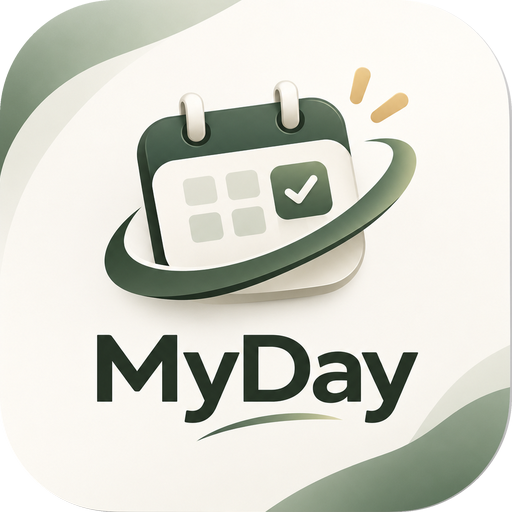
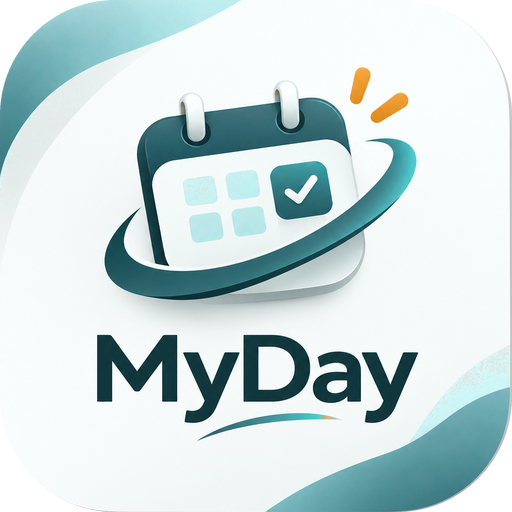
Add files via upload

diff --git a/app.js b/app.js
@@ -98,7 +98,7 @@ function save() {
 }
 
 /* ---------- UI dasar ---------- */
-const state = { tab: 'today', sub: null, date: ymd(), month: ymd().slice(0, 7), q: { page: 0, mode: 'surah', search: '' }, dzTab: 'dzikir' };
+const state = { tab: 'today', sub: null, date: ymd(), month: ymd().slice(0, 7), q: { page: 0, mode: 'surah', search: '' }, dzTab: 'dzikir', dzSet: 'pagi' };
 let toastTimer = null;
 function toast(msg, ms = 2800) {
   const t = $('#toast');
@@ -646,6 +646,64 @@ const DZIKIR = [
   { id: 'hawqalah', ar: 'لَا حَوْلَ وَلَا قُوَّةَ إِلَّا بِٱللّٰهِ', mean: 'Tiada daya dan kekuatan kecuali dengan pertolongan Allah', target: 33 },
   { id: 'shalawat', ar: 'ٱللّٰهُمَّ صَلِّ عَلَىٰ مُحَمَّدٍ', mean: 'Ya Allah, limpahkan shalawat kepada Muhammad', target: 100 },
 ];
+
+const ayatJoin = (arr) => arr.map((t, i) => `${t} ﴿${arNum(i + 1)}﴾`).join(' ');
+const Z = {
+  kursi: { id: 'kursi', t: 'Ayat Kursi (Al-Baqarah: 255)', target: 1,
+    ar: 'اللَّهُ لَا إِلَٰهَ إِلَّا هُوَ الْحَيُّ الْقَيُّومُ ۚ لَا تَأْخُذُهُ سِنَةٌ وَلَا نَوْمٌ ۚ لَهُ مَا فِي السَّمَاوَاتِ وَمَا فِي الْأَرْضِ ۗ مَنْ ذَا الَّذِي يَشْفَعُ عِنْدَهُ إِلَّا بِإِذْنِهِ ۚ يَعْلَمُ مَا بَيْنَ أَيْدِيهِمْ وَمَا خَلْفَهُمْ ۖ وَلَا يُحِيطُونَ بِشَيْءٍ مِنْ عِلْمِهِ إِلَّا بِمَا شَاءَ ۚ وَسِعَ كُرْسِيُّهُ السَّمَاوَاتِ وَالْأَرْضَ ۖ وَلَا يَئُودُهُ حِفْظُهُمَا ۚ وَهُوَ الْعَلِيُّ الْعَظِيمُ',
+    mean: 'Allah, tiada tuhan selain Dia, Yang Maha Hidup, Yang terus-menerus mengurus makhluk-Nya. Dia tidak mengantuk dan tidak tidur. Milik-Nya apa yang di langit dan di bumi. Tiada yang dapat memberi syafaat di sisi-Nya kecuali dengan izin-Nya. Dia mengetahui apa yang di hadapan dan di belakang mereka, dan mereka tidak mengetahui sesuatu pun dari ilmu-Nya kecuali apa yang Dia kehendaki. Kursi-Nya meliputi langit dan bumi, dan Dia tidak merasa berat memelihara keduanya. Dia Maha Tinggi, Maha Besar.' },
+  ikhlas: { id: 'ikhlas', t: 'Surah Al-Ikhlas', target: 3,
+    ar: ayatJoin(['قُلْ هُوَ اللَّهُ أَحَدٌ', 'اللَّهُ الصَّمَدُ', 'لَمْ يَلِدْ وَلَمْ يُولَدْ', 'وَلَمْ يَكُنْ لَهُ كُفُوًا أَحَدٌ']),
+    mean: 'Katakanlah: Dialah Allah, Yang Maha Esa. Allah tempat bergantung segala sesuatu. Dia tidak beranak dan tidak diperanakkan. Dan tidak ada sesuatu pun yang setara dengan Dia.' },
+  falaq: { id: 'falaq', t: 'Surah Al-Falaq', target: 3,
+    ar: ayatJoin(['قُلْ أَعُوذُ بِرَبِّ الْفَلَقِ', 'مِنْ شَرِّ مَا خَلَقَ', 'وَمِنْ شَرِّ غَاسِقٍ إِذَا وَقَبَ', 'وَمِنْ شَرِّ النَّفَّاثَاتِ فِي الْعُقَدِ', 'وَمِنْ شَرِّ حَاسِدٍ إِذَا حَسَدَ']),
+    mean: 'Katakanlah: Aku berlindung kepada Tuhan yang menguasai subuh, dari kejahatan makhluk yang Dia ciptakan, dari kejahatan malam apabila telah gelap gulita, dari kejahatan para penyihir yang meniup pada buhul-buhul, dan dari kejahatan orang yang dengki apabila ia dengki.' },
+  nas: { id: 'nas', t: 'Surah An-Nas', target: 3,
+    ar: ayatJoin(['قُلْ أَعُوذُ بِرَبِّ النَّاسِ', 'مَلِكِ النَّاسِ', 'إِلَٰهِ النَّاسِ', 'مِنْ شَرِّ الْوَسْوَاسِ الْخَنَّاسِ', 'الَّذِي يُوَسْوِسُ فِي صُدُورِ النَّاسِ', 'مِنَ الْجِنَّةِ وَالنَّاسِ']),
+    mean: 'Katakanlah: Aku berlindung kepada Tuhan manusia, Raja manusia, sembahan manusia, dari kejahatan bisikan setan yang bersembunyi, yang membisikkan ke dalam dada manusia, dari golongan jin dan manusia.' },
+  asbahna: { id: 'asbahna', t: 'Memasuki pagi', target: 1,
+    ar: 'أَصْبَحْنَا وَأَصْبَحَ الْمُلْكُ لِلَّهِ وَالْحَمْدُ لِلَّهِ، لَا إِلَٰهَ إِلَّا اللَّهُ وَحْدَهُ لَا شَرِيكَ لَهُ، لَهُ الْمُلْكُ وَلَهُ الْحَمْدُ وَهُوَ عَلَىٰ كُلِّ شَيْءٍ قَدِيرٌ',
+    mean: 'Kami memasuki pagi dan kerajaan hanya milik Allah, segala puji bagi Allah. Tiada tuhan selain Allah semata, tiada sekutu bagi-Nya. Milik-Nya kerajaan dan milik-Nya segala puji, dan Dia Maha Kuasa atas segala sesuatu.' },
+  bika_pagi: { id: 'bika', t: 'Dengan-Mu kami berpagi hari', target: 1,
+    ar: 'اللَّهُمَّ بِكَ أَصْبَحْنَا وَبِكَ أَمْسَيْنَا وَبِكَ نَحْيَا وَبِكَ نَمُوتُ وَإِلَيْكَ النُّشُورُ',
+    mean: 'Ya Allah, dengan-Mu kami memasuki pagi, dengan-Mu kami memasuki sore, dengan-Mu kami hidup, dengan-Mu kami mati, dan kepada-Mu kebangkitan.' },
+  amsaina: { id: 'amsaina', t: 'Memasuki petang', target: 1,
+    ar: 'أَمْسَيْنَا وَأَمْسَى الْمُلْكُ لِلَّهِ وَالْحَمْدُ لِلَّهِ، لَا إِلَٰهَ إِلَّا اللَّهُ وَحْدَهُ لَا شَرِيكَ لَهُ، لَهُ الْمُلْكُ وَلَهُ الْحَمْدُ وَهُوَ عَلَىٰ كُلِّ شَيْءٍ قَدِيرٌ',
+    mean: 'Kami memasuki petang dan kerajaan hanya milik Allah, segala puji bagi Allah. Tiada tuhan selain Allah semata, tiada sekutu bagi-Nya. Milik-Nya kerajaan dan milik-Nya segala puji, dan Dia Maha Kuasa atas segala sesuatu.' },
+  bika_petang: { id: 'bika', t: 'Dengan-Mu kami bersore hari', target: 1,
+    ar: 'اللَّهُمَّ بِكَ أَمْسَيْنَا وَبِكَ أَصْبَحْنَا وَبِكَ نَحْيَا وَبِكَ نَمُوتُ وَإِلَيْكَ الْمَصِيرُ',
+    mean: 'Ya Allah, dengan-Mu kami memasuki sore, dengan-Mu kami memasuki pagi, dengan-Mu kami hidup, dengan-Mu kami mati, dan kepada-Mu tempat kembali.' },
+  sayyid: { id: 'sayyid', t: 'Sayyidul Istighfar', target: 1,
+    ar: 'اللَّهُمَّ أَنْتَ رَبِّي لَا إِلَٰهَ إِلَّا أَنْتَ، خَلَقْتَنِي وَأَنَا عَبْدُكَ، وَأَنَا عَلَىٰ عَهْدِكَ وَوَعْدِكَ مَا اسْتَطَعْتُ، أَعُوذُ بِكَ مِنْ شَرِّ مَا صَنَعْتُ، أَبُوءُ لَكَ بِنِعْمَتِكَ عَلَيَّ، وَأَبُوءُ بِذَنْبِي فَاغْفِرْ لِي فَإِنَّهُ لَا يَغْفِرُ الذُّنُوبَ إِلَّا أَنْتَ',
+    mean: 'Ya Allah, Engkau Tuhanku, tiada tuhan selain Engkau. Engkau menciptakanku dan aku hamba-Mu, aku berada di atas perjanjian dan janji-Mu semampuku. Aku berlindung kepada-Mu dari keburukan yang kuperbuat. Aku mengakui nikmat-Mu kepadaku dan mengakui dosaku, maka ampunilah aku, karena tiada yang mengampuni dosa kecuali Engkau.' },
+  afiyah: { id: 'afiyah', t: 'Memohon kesehatan', target: 3,
+    ar: 'اللَّهُمَّ عَافِنِي فِي بَدَنِي، اللَّهُمَّ عَافِنِي فِي سَمْعِي، اللَّهُمَّ عَافِنِي فِي بَصَرِي، لَا إِلَٰهَ إِلَّا أَنْتَ',
+    mean: 'Ya Allah, sehatkanlah badanku. Ya Allah, sehatkanlah pendengaranku. Ya Allah, sehatkanlah penglihatanku. Tiada tuhan selain Engkau.' },
+  bismillah: { id: 'bismillah', t: 'Perlindungan dari bahaya', target: 3,
+    ar: 'بِسْمِ اللَّهِ الَّذِي لَا يَضُرُّ مَعَ اسْمِهِ شَيْءٌ فِي الْأَرْضِ وَلَا فِي السَّمَاءِ وَهُوَ السَّمِيعُ الْعَلِيمُ',
+    mean: 'Dengan nama Allah yang tidak ada sesuatu pun di bumi dan di langit yang dapat membahayakan bersama nama-Nya, dan Dia Maha Mendengar lagi Maha Mengetahui.' },
+  kalimat: { id: 'kalimat', t: 'Berlindung dengan kalimat Allah', target: 3,
+    ar: 'أَعُوذُ بِكَلِمَاتِ اللَّهِ التَّامَّاتِ مِنْ شَرِّ مَا خَلَقَ',
+    mean: 'Aku berlindung dengan kalimat-kalimat Allah yang sempurna dari keburukan makhluk yang Dia ciptakan.' },
+  ridha: { id: 'ridha', t: 'Ridha kepada Allah', target: 3,
+    ar: 'رَضِيتُ بِاللَّهِ رَبًّا وَبِالْإِسْلَامِ دِينًا وَبِمُحَمَّدٍ نَبِيًّا',
+    mean: 'Aku ridha Allah sebagai Tuhan, Islam sebagai agama, dan Muhammad sebagai nabi.' },
+  subhan: { id: 'subhan', t: 'Tasbih dan tahmid', target: 100,
+    ar: 'سُبْحَانَ اللَّهِ وَبِحَمْدِهِ',
+    mean: 'Maha Suci Allah dan segala puji bagi-Nya.' },
+  tahlil: { id: 'tahlil', t: 'Tahlil', target: 10,
+    ar: 'لَا إِلَٰهَ إِلَّا اللَّهُ وَحْدَهُ لَا شَرِيكَ لَهُ، لَهُ الْمُلْكُ وَلَهُ الْحَمْدُ وَهُوَ عَلَىٰ كُلِّ شَيْءٍ قَدِيرٌ',
+    mean: 'Tiada tuhan selain Allah semata, tiada sekutu bagi-Nya. Milik-Nya kerajaan dan milik-Nya segala puji, dan Dia Maha Kuasa atas segala sesuatu.' },
+  istighfar: { id: 'istighfar', t: 'Istighfar dan taubat', target: 100,
+    ar: 'أَسْتَغْفِرُ اللَّهَ وَأَتُوبُ إِلَيْهِ',
+    mean: 'Aku memohon ampun kepada Allah dan bertaubat kepada-Nya.' },
+};
+const DZ_PAGI = [Z.kursi, Z.ikhlas, Z.falaq, Z.nas, Z.asbahna, Z.bika_pagi, Z.sayyid, Z.afiyah, Z.bismillah, Z.ridha, Z.subhan, Z.tahlil, Z.istighfar];
+const DZ_PETANG = [Z.kursi, Z.ikhlas, Z.falaq, Z.nas, Z.amsaina, Z.bika_petang, Z.sayyid, Z.afiyah, Z.bismillah, Z.kalimat, Z.ridha, Z.subhan, Z.tahlil, Z.istighfar];
+const DZ_SETS = { pagi: DZ_PAGI, petang: DZ_PETANG, umum: DZIKIR };
+const DZ_NAMES = { pagi: 'Dzikir pagi', petang: 'Dzikir petang', umum: 'Setelah sholat' };
+const dzFind = (key) => { const [set, id] = key.split(':'); return (DZ_SETS[set] || []).find((x) => x.id === id); };
+
 const DOA = [
   { t: 'Bangun tidur', ar: 'الْحَمْدُ لِلَّهِ الَّذِي أَحْيَانَا بَعْدَ مَا أَمَاتَنَا وَإِلَيْهِ النُّشُورُ', mean: 'Segala puji bagi Allah yang menghidupkan kami setelah mematikan kami, dan kepada-Nya kami dikembalikan.' },
   { t: 'Sebelum tidur', ar: 'بِاسْمِكَ اللَّهُمَّ أَحْيَا وَبِاسْمِكَ أَمُوتُ', mean: 'Dengan nama-Mu ya Allah aku hidup dan aku mati.' },
@@ -672,7 +730,7 @@ function viewMore() {
   return `<div class="head-row"><div class="head-c" style="text-align:left"><div class="h1 serif">Lainnya</div></div></div>
     <div class="card flush">
       ${row('go-habits', 'Kebiasaan harian', 'Centang kebiasaan baik dan jaga rangkaian harinya')}
-      ${row('go-dzikir', 'Dzikir', 'Penghitung dzikir harian')}
+      ${row('go-dzikir', 'Dzikir', 'Dzikir pagi, petang, dan setelah sholat')}
       ${row('go-doa', 'Doa harian', 'Doa-doa pendek sehari-hari')}
     </div>
     <div class="card flush">
@@ -706,14 +764,18 @@ function viewAmalan() {
   const tab = state.dzTab, d = ymd(), log = S.dzikir[d] || {};
   let html = `<div class="row">${backBtn()}<div class="grow"><div class="h1 serif">${tab === 'dzikir' ? 'Dzikir' : 'Doa harian'}</div></div></div>`;
   if (tab === 'dzikir') {
-    html += `<div class="muted mb" style="margin-top:2px">Ketuk angka untuk menghitung. Tersimpan per hari.</div>`;
-    for (const z of DZIKIR) {
-      const c = log[z.id] || 0, pct = Math.min(100, Math.round((c / z.target) * 100));
+    const set = state.dzSet, list = DZ_SETS[set];
+    const doneN = list.filter((z) => (log[set + ':' + z.id] || 0) >= z.target).length;
+    html += `<div class="seg" style="margin:6px 0 12px">${['pagi', 'petang', 'umum'].map((k) => `<button class="${set === k ? 'on' : ''}" data-act="dz-set" data-s="${k}">${k === 'umum' ? 'Setelah sholat' : k === 'pagi' ? 'Pagi' : 'Petang'}</button>`).join('')}</div>
+      <div class="muted mb">${set === 'pagi' ? 'Dibaca setelah Subuh hingga pagi hari.' : set === 'petang' ? 'Dibaca setelah Ashar hingga Maghrib.' : 'Penghitung dzikir setelah sholat.'} Ketuk angka untuk menghitung. Selesai ${doneN} dari ${list.length}.</div>`;
+    for (const z of list) {
+      const key = set + ':' + z.id, c = log[key] || 0, pct = Math.min(100, Math.round((c / z.target) * 100));
       html += `<div class="card dz">
-        <div class="ar-line">${z.ar}</div><div class="muted center">${esc(z.mean)}</div>
+        ${z.t ? `<div class="dz-t">${esc(z.t)}</div>` : ''}
+        <div class="ar-line ${z.ar.length > 110 ? 'long' : ''}">${z.ar}</div><div class="muted ${z.mean.length > 140 ? 'tr-long' : 'center'}">${esc(z.mean)}</div>
         <div class="bar mt ${c >= z.target ? 'gold' : ''}"><i style="width:${pct}%"></i></div>
-        <div class="row between mt"><button class="ghost small" data-act="dz-reset" data-id="${z.id}">Ulang</button>
-        <button class="count" data-act="dz-add" data-id="${z.id}" aria-label="Tambah hitungan"><span id="dz-${z.id}">${c}</span><small>/ ${z.target}</small></button><span style="width:56px"></span></div>
+        <div class="row between mt"><button class="ghost small" data-act="dz-reset" data-key="${key}">Ulang</button>
+        <button class="count" data-act="dz-add" data-key="${key}" aria-label="Tambah hitungan"><span id="dz-${set}-${z.id}">${c}</span><small>/ ${z.target}</small></button><span style="width:56px"></span></div>
       </div>`;
     }
   } else {
@@ -895,7 +957,7 @@ ACT['export-csv'] = () => {
 
 // Lainnya
 ACT['go-habits'] = () => { state.sub = 'habits'; render(true); window.scrollTo(0, 0); };
-ACT['go-dzikir'] = () => { state.sub = 'amalan'; state.dzTab = 'dzikir'; render(true); window.scrollTo(0, 0); };
+ACT['go-dzikir'] = () => { state.sub = 'amalan'; state.dzTab = 'dzikir'; state.dzSet = new Date().getHours() < 14 ? 'pagi' : 'petang'; render(true); window.scrollTo(0, 0); };
 ACT['go-doa'] = () => { state.sub = 'amalan'; state.dzTab = 'doa'; render(true); window.scrollTo(0, 0); };
 ACT['go-settings'] = () => { state.sub = 'settings'; render(true); window.scrollTo(0, 0); };
 ACT['add-habit'] = () => openModal(habitForm({ name: '', remindAt: '' }));
@@ -909,20 +971,21 @@ ACT['save-habit'] = (el) => {
   save(); closeModal(); render(true);
 };
 ACT['del-habit'] = (el) => { if (!confirm('Hapus kebiasaan ini?')) return; S.habits = S.habits.filter((h) => h.id !== el.dataset.id); save(); closeModal(); render(true); };
+ACT['dz-set'] = (el) => { state.dzSet = el.dataset.s; render(true); window.scrollTo(0, 0); };
 ACT['dz-add'] = (el) => {
-  const d = ymd(), id = el.dataset.id;
+  const d = ymd(), key = el.dataset.key;
   S.dzikir[d] = S.dzikir[d] || {};
-  S.dzikir[d][id] = (S.dzikir[d][id] || 0) + 1;
+  S.dzikir[d][key] = (S.dzikir[d][key] || 0) + 1;
   save();
   if (navigator.vibrate) navigator.vibrate(12);
-  const z = DZIKIR.find((x) => x.id === id), c = S.dzikir[d][id];
-  const span = $('#dz-' + id);
+  const z = dzFind(key), c = S.dzikir[d][key];
+  const span = $('#dz-' + key.replace(':', '-'));
   if (span) span.textContent = c;
   const card = el.closest('.card'), bar = card && card.querySelector('.bar');
   if (bar && z) { bar.classList.toggle('gold', c >= z.target); bar.firstElementChild.style.width = Math.min(100, Math.round((c / z.target) * 100)) + '%'; }
-  if (z && c === z.target) { if (navigator.vibrate) navigator.vibrate([30, 40, 30]); toast('Target tercapai'); }
+  if (z && c === z.target) { if (navigator.vibrate) navigator.vibrate([30, 40, 30]); toast('Selesai ✓'); }
 };
-ACT['dz-reset'] = (el) => { const d = ymd(); if (S.dzikir[d]) S.dzikir[d][el.dataset.id] = 0; save(); render(true); };
+ACT['dz-reset'] = (el) => { const d = ymd(); if (S.dzikir[d]) S.dzikir[d][el.dataset.key] = 0; save(); render(true); };
 ACT.geo = () => {
   if (!navigator.geolocation) return toast('Browser tidak mendukung lokasi.');
   toast('Mencari lokasi…');

diff --git a/style.css b/style.css
@@ -1,18 +1,19 @@
 :root {
-  --bg: #faf8f1;
-  --card: #fffefb;
-  --line: #e9e5d8;
-  --text: #22302a;
-  --muted: #6f7c73;
-  --primary: #3f5e45;
-  --primary-2: #5e7f63;
-  --soft: #e8eee3;
-  --soft-2: #f2f4ea;
-  --gold: #c9a257;
-  --gold-soft: #f6ecd3;
-  --gold-ink: #7d5f1b;
-  --good: #3f7a52;
-  --bad: #b4513c;
+  --bg: #f4fafa;
+  --card: #ffffff;
+  --line: #d9ebea;
+  --text: #10303a;
+  --muted: #58777c;
+  --primary: #17707c;
+  --primary-2: #2a9aa0;
+  --soft: #d9f0f0;
+  --soft-2: #ebf8f8;
+  --accent: #f0952a;
+  --gold: #f0a030;
+  --gold-soft: #fff0d2;
+  --gold-ink: #8a5300;
+  --good: #1f9d6b;
+  --bad: #d9533b;
   --radius: 20px;
   --nav-h: 66px;
   --serif: "Iowan Old Style", "Palatino Linotype", Palatino, "Book Antiqua", Georgia, "Noto Serif", serif;
@@ -37,7 +38,7 @@ body {
   transition: opacity .7s ease;
 }
 #splash.hide { opacity: 0; pointer-events: none; }
-#splash img { width: 124px; height: 124px; border-radius: 28px; box-shadow: 0 14px 34px rgba(63, 94, 69, .18); }
+#splash img { width: 124px; height: 124px; border-radius: 28px; box-shadow: 0 14px 34px rgba(23, 112, 124, .22); }
 .splash-name { font-size: 26px; letter-spacing: .5px; color: var(--primary); }
 
 /* Header */
@@ -45,11 +46,11 @@ body {
   position: sticky; top: 0; z-index: 5;
   display: flex; justify-content: space-between; align-items: center;
   padding: calc(10px + env(safe-area-inset-top)) 18px 10px;
-  background: rgba(250, 248, 241, .94);
+  background: rgba(244, 250, 250, .94);
   -webkit-backdrop-filter: blur(8px); backdrop-filter: blur(8px);
 }
 .brand { display: flex; align-items: center; gap: 10px; }
-.brand img { border-radius: 9px; box-shadow: 0 2px 8px rgba(63, 94, 69, .18); }
+.brand img { border-radius: 9px; box-shadow: 0 2px 8px rgba(23, 112, 124, .22); }
 .brand span { font-size: 21px; font-weight: 600; color: var(--primary); letter-spacing: .2px; }
 .chip {
   background: transparent; color: var(--primary); border: 1px solid var(--line);
@@ -75,7 +76,7 @@ h3 { font-size: 15px; font-weight: 650; margin: 0 0 8px; }
   border-radius: var(--radius);
   padding: 16px 18px;
   margin-bottom: 14px;
-  box-shadow: 0 1px 2px rgba(34, 48, 42, .03);
+  box-shadow: 0 1px 2px rgba(16, 48, 58, .04);
 }
 .card.soft { background: var(--soft-2); border-color: transparent; }
 .card.warn { background: var(--gold-soft); border-color: transparent; color: var(--gold-ink); }
@@ -90,14 +91,15 @@ h3 { font-size: 15px; font-weight: 650; margin: 0 0 8px; }
 /* Kartu sholat berikutnya */
 .hero {
   text-align: center; padding: 26px 18px 24px; margin-bottom: 14px;
-  border-radius: 26px; border: 1px solid var(--line);
-  background: linear-gradient(165deg, #e9efe3 0%, #f6f3e7 100%);
+  border-radius: 26px; border: 0; color: #fff;
+  background: linear-gradient(150deg, #17707c 0%, #2a9aa0 100%);
+  box-shadow: 0 12px 28px rgba(23, 112, 124, .28);
 }
-.hero-label { font-size: 12.5px; letter-spacing: 1.6px; text-transform: uppercase; color: var(--primary-2); font-weight: 650; }
-.hero-name { font-size: 22px; margin-top: 8px; color: var(--text); }
-.hero-time { font-size: 60px; line-height: 1.05; font-weight: 600; color: var(--primary); margin: 2px 0 10px; letter-spacing: 1px; font-variant-numeric: lining-nums; }
+.hero-label { font-size: 12.5px; letter-spacing: 1.6px; text-transform: uppercase; color: rgba(255,255,255,.82); font-weight: 650; }
+.hero-name { font-size: 22px; margin-top: 8px; color: #fff; }
+.hero-time { font-size: 60px; line-height: 1.05; font-weight: 600; color: #fff; margin: 2px 0 10px; letter-spacing: 1px; font-variant-numeric: lining-nums; }
 .hero-left { display: inline-block; font-size: 14px; font-weight: 600; background: var(--gold-soft); color: var(--gold-ink); padding: 5px 14px; border-radius: 999px; }
-.hero-sub { margin-top: 12px; font-size: 13px; color: var(--muted); }
+.hero-sub { margin-top: 12px; font-size: 13px; color: rgba(255,255,255,.85); }
 .hint { text-align: center; font-size: 13.5px; color: var(--muted); margin: -2px 6px 14px; }
 
 /* Daftar */
@@ -109,12 +111,12 @@ h3 { font-size: 15px; font-weight: 650; margin: 0 0 8px; }
 .item .title { font-weight: 600; }
 .item .sub { font-size: 12.5px; color: var(--muted); }
 .tag { font-size: 11px; padding: 2px 9px; border-radius: 999px; background: var(--soft); color: var(--primary); font-weight: 650; flex: none; }
-.dot { width: 7px; height: 7px; border-radius: 50%; background: var(--sage, #8fa893); display: inline-block; margin-right: 6px; }
+.dot { width: 7px; height: 7px; border-radius: 50%; background: var(--accent); display: inline-block; margin-right: 6px; }
 
 input[type=checkbox] {
   -webkit-appearance: none; appearance: none; flex: none;
   width: 24px; height: 24px; border-radius: 50%; margin: 0; cursor: pointer;
-  border: 1.6px solid #b6c3b5; background: transparent center / 14px no-repeat;
+  border: 1.6px solid #a9c9ca; background: transparent center / 14px no-repeat;
   transition: background-color .15s, border-color .15s;
 }
 input[type=checkbox]:checked {
@@ -136,7 +138,7 @@ button:disabled { opacity: .5; }
 .fab {
   position: fixed; right: 20px; bottom: calc(var(--nav-h) + env(safe-area-inset-bottom) + 18px);
   width: 58px; height: 58px; border-radius: 50%; font-size: 30px; padding: 0; line-height: 1;
-  box-shadow: 0 10px 24px rgba(63, 94, 69, .35); z-index: 6;
+  box-shadow: 0 10px 24px rgba(23, 112, 124, .38); z-index: 6;
 }
 
 /* Formulir */
@@ -154,12 +156,12 @@ input[type=range] { accent-color: var(--primary); }
   position: fixed; left: 0; right: 0; bottom: 0; z-index: 8;
   height: calc(var(--nav-h) + env(safe-area-inset-bottom));
   padding-bottom: env(safe-area-inset-bottom);
-  display: flex; background: rgba(255, 254, 251, .96);
+  display: flex; background: rgba(255, 255, 255, .97);
   border-top: 1px solid var(--line);
   -webkit-backdrop-filter: blur(8px); backdrop-filter: blur(8px);
 }
 .bottomnav button {
-  flex: 1; background: transparent; color: #8a968d; border-radius: 0;
+  flex: 1; background: transparent; color: #7f9a9e; border-radius: 0;
   display: flex; flex-direction: column; align-items: center; justify-content: center; gap: 3px;
   font-size: 11.5px; font-weight: 600; padding: 6px 0;
 }
@@ -167,7 +169,7 @@ input[type=range] { accent-color: var(--primary); }
 .bottomnav button.active { color: var(--primary); }
 
 /* Modal & toast */
-.modal { position: fixed; inset: 0; z-index: 20; background: rgba(34, 48, 42, .45); display: flex; align-items: flex-end; justify-content: center; }
+.modal { position: fixed; inset: 0; z-index: 20; background: rgba(16, 48, 58, .5); display: flex; align-items: flex-end; justify-content: center; }
 .modal.hidden, .toast.hidden { display: none; }
 .modal-card {
   width: 100%; max-width: 560px; max-height: 90vh; overflow-y: auto;
@@ -182,7 +184,7 @@ input[type=range] { accent-color: var(--primary); }
 /* Segmen */
 .seg { display: flex; background: var(--soft-2); border-radius: 14px; padding: 4px; gap: 4px; }
 .seg button { flex: 1; background: transparent; color: var(--muted); padding: 8px 6px; font-size: 13.5px; border-radius: 11px; }
-.seg button.on { background: var(--card); color: var(--primary); box-shadow: 0 1px 3px rgba(34, 48, 42, .1); }
+.seg button.on { background: var(--card); color: var(--primary); box-shadow: 0 1px 3px rgba(16, 48, 58, .12); }
 
 /* Angka & bilah */
 .stat { display: flex; gap: 8px; }
@@ -268,8 +270,25 @@ input[type=range] { accent-color: var(--primary); }
 }
 .dz .count span { font-family: var(--serif); font-size: 30px; font-weight: 600; line-height: 1; }
 .dz .count small { font-size: 13px; opacity: .7; }
-.dz .count:active { transform: scale(.97); background: #dde7d6; }
+.dz .count:active { transform: scale(.97); background: #c6e6e6; }
 
 /* Sapaan */
 .greet { display: block; font-family: system-ui, -apple-system, "Segoe UI", Roboto, sans-serif; font-size: 15px; font-weight: 500; color: var(--muted); margin-bottom: 2px; letter-spacing: .2px; }
 .head-c .small { margin-top: 1px; }
+
+/* Warna tambahan */
+.fab { background: linear-gradient(145deg, #17707c, #2a9aa0); }
+.item.prayer .t { color: var(--primary); }
+.card.soft { background: linear-gradient(150deg, #e3f5f5, #fff4de); }
+.bar > i { background: linear-gradient(90deg, var(--primary-2), var(--primary)); }
+.bar.gold > i { background: linear-gradient(90deg, #f6b84a, var(--accent)); }
+.seg button.on { color: var(--primary); }
+.tag { background: var(--soft); }
+button.pill { background: var(--soft); }
+.rowlink .n { background: var(--soft); }
+.stat .v { font-weight: 700; }
+
+/* Dzikir pagi/petang */
+.dz-t { text-align: center; font-weight: 650; font-size: 14px; color: var(--primary); margin-bottom: 2px; }
+.ar-line.long { font-size: 22px; line-height: 2.1; }
+.tr-long { font-size: 13.5px; line-height: 1.65; text-align: left; }

diff --git a/sw.js b/sw.js
@@ -1,6 +1,6 @@
 /* MyDay service worker: cache kerangka aplikasi, cache Al-Qur'an, dan tampilkan notifikasi. */
-const SHELL = 'myday-shell-v2';
-const QURAN = 'myday-quran-v2';
+const SHELL = 'myday-shell-v3';
+const QURAN = 'myday-quran-v3';
 const FILES = ['./', './index.html', './style.css', './app.js', './manifest.webmanifest', './icon-192.png', './icon-512.png', './apple-touch-icon.png'];
 
 self.addEventListener('install', (e) => {

diff --git a/index.html b/index.html
@@ -3,7 +3,7 @@
 <head>
   <meta charset="utf-8">
   <meta name="viewport" content="width=device-width, initial-scale=1, viewport-fit=cover">
-  <meta name="theme-color" content="#FAF8F1">
+  <meta name="theme-color" content="#f4fafa">
   <meta name="apple-mobile-web-app-capable" content="yes">
   <meta name="mobile-web-app-capable" content="yes">
   <meta name="apple-mobile-web-app-title" content="MyDay">

diff --git a/PANDUAN.md b/PANDUAN.md
@@ -4,16 +4,17 @@ MyDay adalah aplikasi web yang dipasang di HP seperti aplikasi biasa. Isinya: ja
 
 ## 1. Unggah ke internet (sekali saja, gratis)
 
-Aplikasi harus dibuka lewat alamat `https://` agar bisa dipasang dan notifikasinya berfungsi. Membuka `index.html` langsung dari penyimpanan HP tidak akan berfungsi penuh.
+Aplikasi harus dibuka lewat alamat `https://` agar bisa dipasang dan notifikasinya berfungsi.
 
-Cara termudah, dari komputer:
+**GitHub Pages (disarankan):**
+1. Ekstrak `myday.zip`, buka foldernya sampai `index.html`, `style.css`, dan `app.js` terlihat berdampingan.
+2. Di github.com buat repositori **Public**, lalu **uploading an existing file**. Seret **semua file di dalam folder** (bukan foldernya) dan **Commit changes**.
+3. **Settings → Pages → Deploy from a branch → main → / (root) → Save**.
+4. Tunggu 1-2 menit. Alamatnya `https://NAMA-GITHUB.github.io/NAMA-REPO/`.
 
-1. Ekstrak `myday.zip` sehingga muncul folder `myday`.
-2. Buka **app.netlify.com/drop** di browser.
-3. Seret folder `myday` ke halaman itu.
-4. Tunggu beberapa detik. Anda akan mendapat alamat seperti `https://nama-acak.netlify.app`. Alamat itu bisa Anda ganti namanya di pengaturan situs Netlify.
+**Memperbarui versi yang sudah terunggah:** di repositori, **Add file → Upload files**, seret semua file dari versi baru (nama yang sama akan menggantikan yang lama), lalu **Commit changes**. Tunggu 1-2 menit, tutup MyDay di HP, lalu buka lagi.
 
-Alternatif dengan hasil sama: Cloudflare Pages atau GitHub Pages.
+Alternatif: Netlify Drop (app.netlify.com/drop, seret folder) atau Cloudflare Pages.
 
 ## 2. Pasang di HP Android
 
@@ -50,7 +51,8 @@ Mengunduh ulang file di kemudian hari memakai ID acara yang tetap, jadi biasanya
 - **Hari Ini:** sapaan, sholat berikutnya dengan hitung mundur, dan satu daftar jadwal yang memuat lima waktu sholat otomatis beserta kegiatan Anda. Centang untuk menandai selesai.
 - **Al-Qur'an:** per halaman mushaf (604 halaman), terjemahan Indonesia bisa disembunyikan, ukuran huruf bisa diubah, dan ada daftar surah dan juz. Ketuk **Selesai halaman ini** untuk mencatat bacaan harian dan lanjut.
 - **Keuangan:** pemasukan, pengeluaran, selisih bulan ini, dan anggaran bulanan dengan sisa.
-- **Lainnya:** kebiasaan harian dengan rangkaian hari beruntun, penghitung dzikir, doa harian, pengaturan, dan cadangan data.
+- **Lainnya:** kebiasaan harian dengan rangkaian hari beruntun, dzikir, doa harian, pengaturan, dan cadangan data.
+- **Dzikir:** tiga tab. **Pagi** (13 bacaan) dan **Petang** (14 bacaan) memuat Ayat Kursi, Al-Ikhlas, Al-Falaq, An-Nas, dzikir memasuki pagi atau petang, Sayyidul Istighfar, dan lainnya, masing-masing dengan penghitung sesuai jumlah bacaannya. Tab **Setelah sholat** berisi tasbih, tahmid, takbir, dan dzikir umum. Hitungan tersimpan per hari dan terpisah antara pagi dan petang.
 - **Puasa sunnah:** Senin, Kamis, Ayyamul Bidh (13-15 hijriah), Arafah, Tasu'a dan Asyura. Pengingat muncul malam sebelumnya. Hari Ramadhan, Idul Fitri, dan Idul Adha serta hari Tasyrik tidak disarankan puasa sunnah.
 
 ## 6. Data Anda
@@ -66,9 +68,9 @@ Sudah diuji di browser sungguhan dengan tampilan layar HP, memakai layanan tirua
 
 Belum bisa diuji dari sini: layanan jadwal sholat (Aladhan) dan Al-Qur'an (alquran.cloud) yang asli, notifikasi di HP nyata, dan tampilan di HP nyata. Format data kedua layanan saya ikuti dari pengetahuan tentang API-nya. Jika Al-Qur'an per halaman gagal memuat teks dan terjemahan sekaligus, aplikasi mencoba memuat teks Arab saja. Jika ada yang tidak muncul setelah dipasang, kirim pesan yang tampil dan saya perbaiki.
 
-Teks dzikir dan doa ditulis dari bacaan yang umum dikenal. Mohon periksa kembali dengan sumber yang Anda percaya.
+Teks dzikir pagi dan petang serta doa ditulis dari bacaan yang umum dikenal (rujukan seperti Hisnul Muslim). Jumlah pengulangan mengikuti yang masyhur. Mohon periksa kembali dengan sumber yang Anda percaya.
 
 ## Mengubah tampilan
 
-- Warna: bagian `:root` di `style.css`.
+- Warna: bagian `:root` di `style.css` (teal `--primary`, amber `--accent`).
 - Kebiasaan bawaan: bagian `DEFAULT_HABITS` di `app.js`, atau ubah langsung dari menu Lainnya → Kebiasaan harian.
